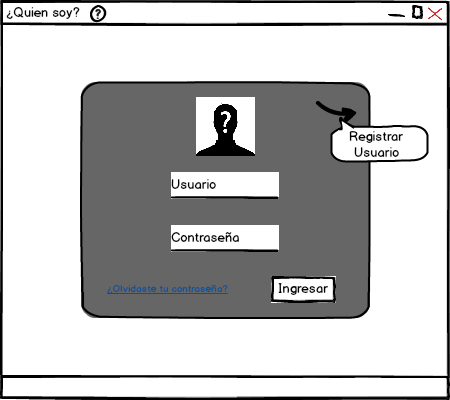
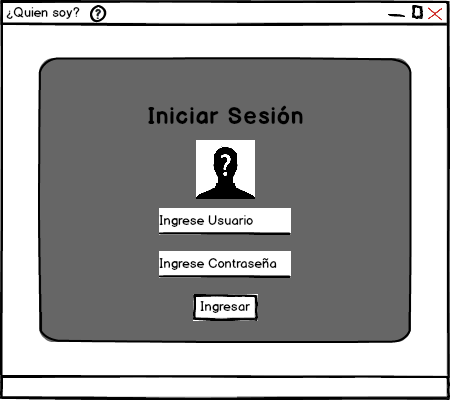
Actualizacion evidencias

diff --git a/Login/page.html b/Login/page.html
@@ -1,0 +1,32 @@
+<!DOCTYPE html>
+<html lang="en">
+
+<head>
+    <meta charset="UTF-8">
+    <meta name="viewport" content="width=device-width, initial-scale=1.0">
+    <title>Login</title>
+    <link rel="stylesheet" href="https://cdn.jsdelivr.net/npm/bootstrap@4.5.3/dist/css/bootstrap.min.css"
+        integrity="sha384-TX8t27EcRE3e/ihU7zmQxVncDAy5uIKz4rEkgIXeMed4M0jlfIDPvg6uqKI2xXr2" crossorigin="anonymous">
+</head>
+
+<body>
+    <nav class="navbar navbar-expand-lg navbar-light bg-light">
+        <a class="navbar-brand" href="#">LocalStorage</a>
+        <button class="navbar-toggler" type="button" data-toggle="collapse" data-target="#nav" aria-controls="nav"
+            aria-expanded="false">
+            <span class="navbar-toggler-icon"></span>
+        </button>
+        <div class="collapse navbar-collapse" id="nav">
+            <div class="navbar-nav">
+                <div id="usernav"></div>
+                <a href="#" id="close" class="nav-item nav-link active">Cerrar sesión</a>
+            </div>
+        </div>
+    </nav>
+    <script src="js/nav.js"></script>
+    <script src="https://code.jquery.com/jquery-3.5.1.slim.min.js" integrity="sha384-DfXdz2htPH0lsSSs5nCTpuj/zy4C+OGpamoFVy38MVBnE+IbbVYUew+OrCXaRkfj" crossorigin="anonymous"></script>
+    <script src="https://cdn.jsdelivr.net/npm/popper.js@1.16.1/dist/umd/popper.min.js" integrity="sha384-9/reFTGAW83EW2RDu2S0VKaIzap3H66lZH81PoYlFhbGU+6BZp6G7niu735Sk7lN" crossorigin="anonymous"></script>
+    <script src="https://cdn.jsdelivr.net/npm/bootstrap@4.5.3/dist/js/bootstrap.min.js" integrity="sha384-w1Q4orYjBQndcko6MimVbzY0tgp4pWB4lZ7lr30WKz0vr/aWKhXdBNmNb5D92v7s" crossorigin="anonymous"></script>
+</body>
+
+</html>

diff --git a/Login/index.html b/Login/index.html
@@ -1,0 +1,36 @@
+<!DOCTYPE html>
+<html lang="en">
+
+<head>
+    <meta charset="UTF-8">
+    <meta name="viewport" content="width=device-width, initial-scale=1.0">
+    <title>Login</title>
+    <link rel="stylesheet" href="https://cdn.jsdelivr.net/npm/bootstrap@4.5.3/dist/css/bootstrap.min.css"
+        integrity="sha384-TX8t27EcRE3e/ihU7zmQxVncDAy5uIKz4rEkgIXeMed4M0jlfIDPvg6uqKI2xXr2" crossorigin="anonymous">
+    <link rel="stylesheet" href="css/style.css">    
+</head>
+
+<body>
+    <form class="form" id="form">
+        
+        <h1>Iniciar Sesión</h1>
+        <img src="descargar.png" width="100" height="100">
+        <input type="text" id="username" class="form-control" placeholder="Ingrese Usuario" required>
+        <input type="password" id="password" class="form-control" placeholder="Ingrese Contraseña" required>
+        <button type="submit" class="btn btn-outline-success">Ingresar</button>
+    
+    </form>
+
+    <script src="https://code.jquery.com/jquery-3.5.1.slim.min.js"
+        integrity="sha384-DfXdz2htPH0lsSSs5nCTpuj/zy4C+OGpamoFVy38MVBnE+IbbVYUew+OrCXaRkfj"
+        crossorigin="anonymous"></script>
+    <script src="https://cdn.jsdelivr.net/npm/popper.js@1.16.1/dist/umd/popper.min.js"
+        integrity="sha384-9/reFTGAW83EW2RDu2S0VKaIzap3H66lZH81PoYlFhbGU+6BZp6G7niu735Sk7lN"
+        crossorigin="anonymous"></script>
+    <script src="https://cdn.jsdelivr.net/npm/bootstrap@4.5.3/dist/js/bootstrap.min.js"
+        integrity="sha384-w1Q4orYjBQndcko6MimVbzY0tgp4pWB4lZ7lr30WKz0vr/aWKhXdBNmNb5D92v7s"
+        crossorigin="anonymous"></script>
+    <script src="js/login.js"></script>
+</body>
+
+</html>

diff --git a/Login/js/nav.js b/Login/js/nav.js
@@ -1,0 +1,17 @@
+const usernav = document.getElementById('usernav');
+const close = document.getElementById('close');
+
+let username = JSON.parse(localStorage.getItem('user'));
+
+if (username != null) {
+    usernav.innerHTML=' <a href="#" id="close" class="nav-item nav-link active">'+username[0].usuario+'</a>';
+}else{
+    usernav.innerHTML=' <a href="index.html" id="close" class="nav-item nav-link active">Iniciar Sesión</a>';
+}
+
+close.addEventListener('click',function(){
+    localStorage.clear('user');
+    location.href='index.html';
+});
+
+console.log(username);

diff --git a/Login/js/login.js b/Login/js/login.js
@@ -1,0 +1,15 @@
+const form = document.getElementById('form');
+const username = document.getElementById('username');
+const password = document.getElementById('password');
+
+form.addEventListener('submit', function(event){
+    event.preventDefault();
+    let users = Array(
+        {
+            usuario: username.value,
+            contraseña: password.value
+        }
+    );
+    localStorage.setItem('user',JSON.stringify(users));
+    location.href='page.html';
+});

diff --git a/Login/css/style.css b/Login/css/style.css
@@ -1,0 +1,20 @@
+html,body{
+    height: 100%;
+}
+body{
+    display: flex;
+    justify-content: center;
+    align-items: center;
+    background-color: beige;
+}
+.form{
+    width: 100%;
+    max-width: 330px;
+    padding: 15px;
+    margin: auto;
+    text-align: center;
+}
+.form input.form-control{
+    margin: 20px 0px;
+    
+}
